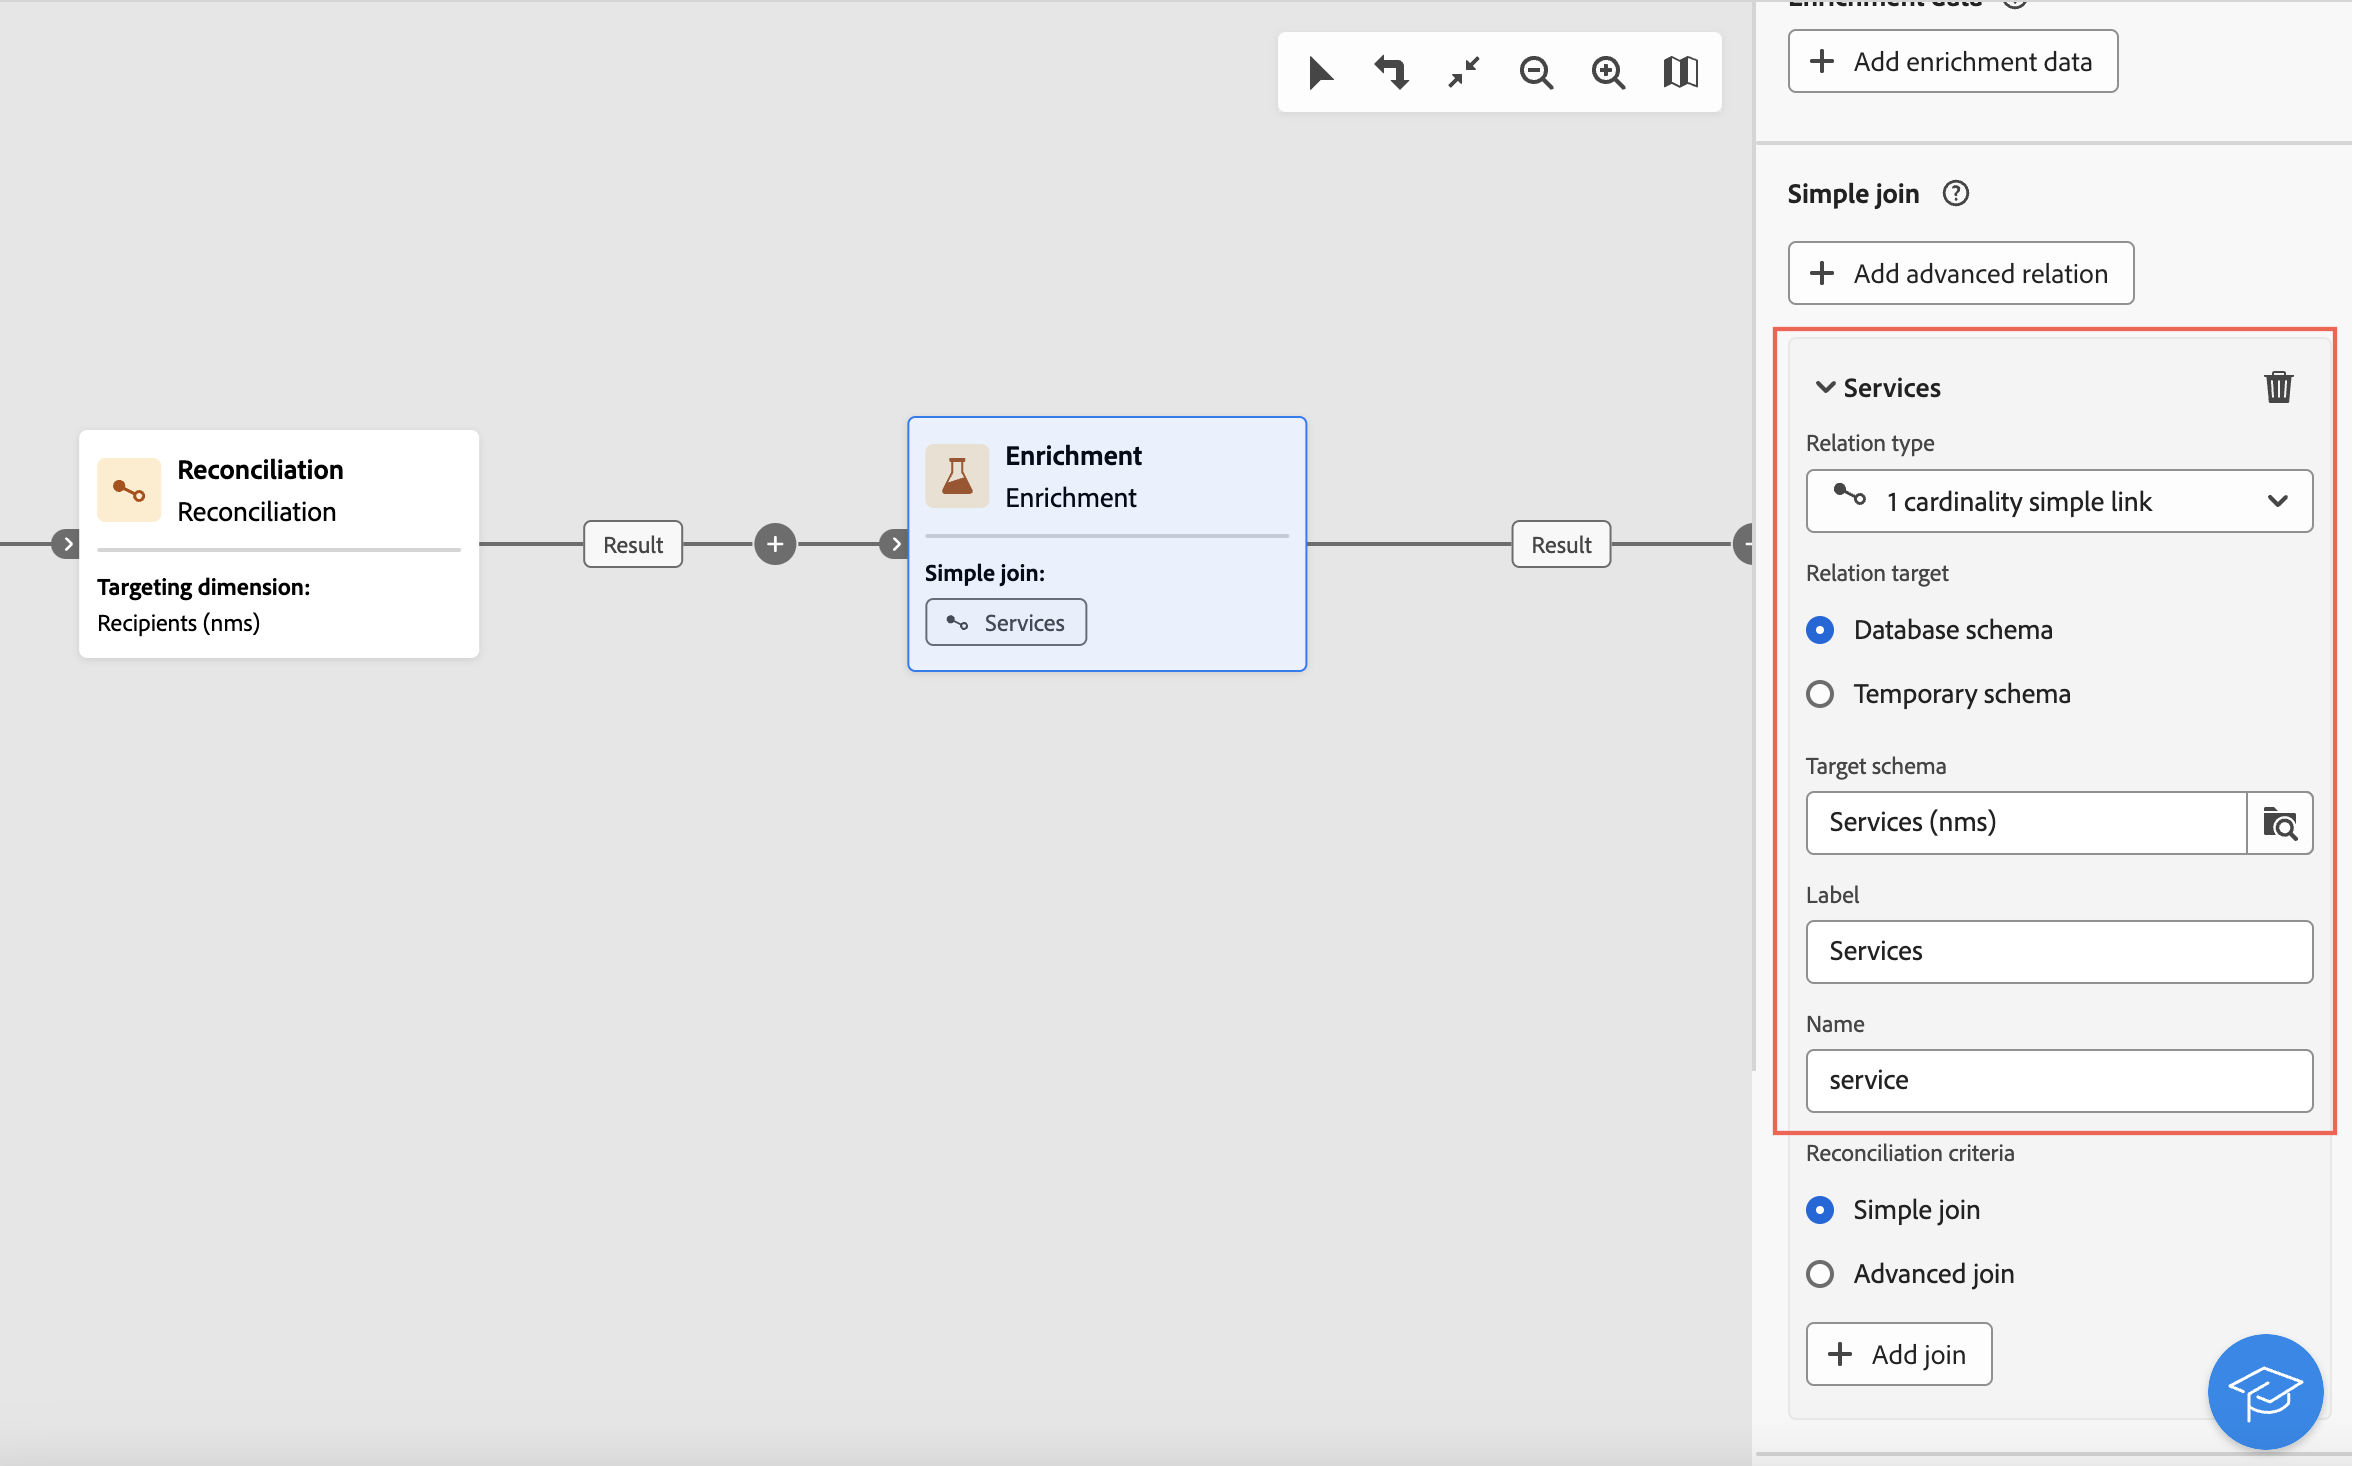
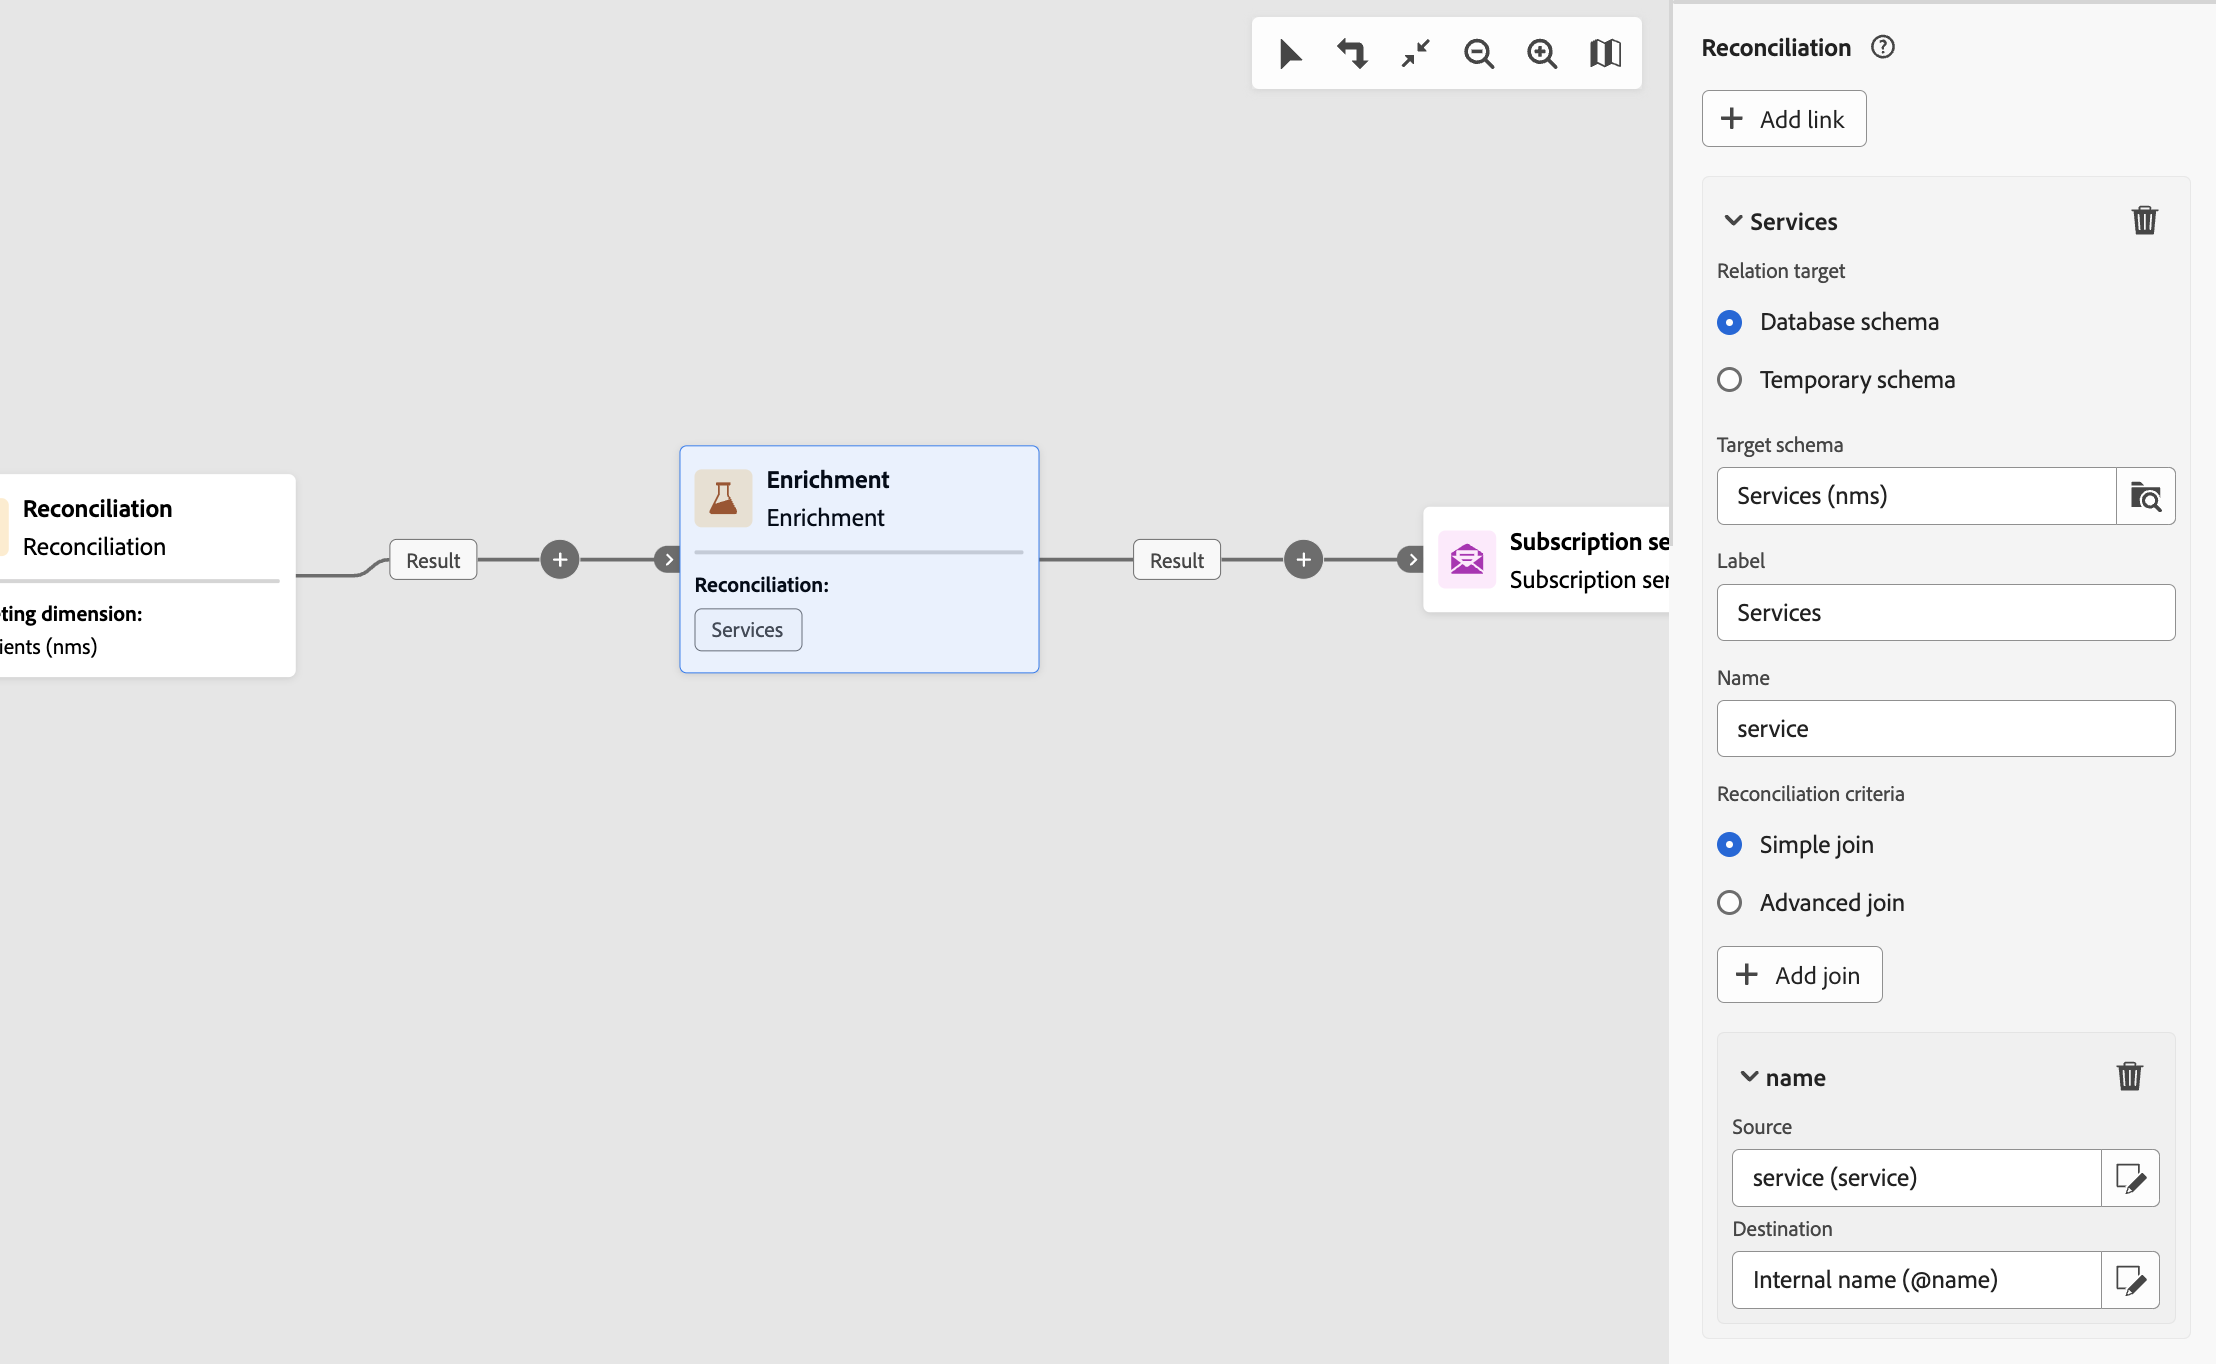
Docac 10429 reconciliation enrichment (#155)
* draft

* reconciliation option

* update reconciliation

* update example

* fix

* add use case

* update

* update uc subscription

* fix

* fix

* fix use case

diff --git a/help/v8/workflows/activities/subscription-services.md b/help/v8/workflows/activities/subscription-services.md
@@ -4,7 +4,7 @@ title: Use the Subscription services activity
 description: Learn how to use the Subscription services workflow activity
 exl-id: 0e7c2e9a-3301-4988-ae0e-d901df5b84db
 ---
-# Subscription services {#subscriptipon-services}
+# Subscription services {#subscription-services}
 
 >[!CONTEXTUALHELP]
 >id="acw_orchestration_subscription"
@@ -50,10 +50,12 @@ Follow these steps to configure the **Subscription services** activity:
 
     * **Select an operation type from a path of inbound transition**: Select the column of the inbound data that specifies the operation to perform for each record. For example, you can import a file which specifies the operation to perform for each line in an "operation" column.
 
-      >[!NOTE]
-      >
-      >Only boolean or integer fields can be selected here. Make sure that the data containing the operation to perform matches this format. For example, if you are loading data from a Load file activity, check that you have correctly set the format of the column containing the operation in the **[!UICONTROL Load file]** activity. An example is presented in [this section](#uc2).
+      Only boolean or integer fields can be selected here. Make sure that the data containing the operation to perform matches this format. For example, if you are loading data from a Load file activity, check that you have correctly set the format of the column containing the operation in the **[!UICONTROL Load file]** activity. An example is presented in [this section](#uc2).
 
+      >[!CAUTION]
+      >
+      >By default, if you select this option, the **Subscription services** activity expects to have a link definition to the **Services (nms)** table set up in the workflow. To do this, ensure you have configured a reconciliation link in an **Enrichment activity** upwards in the workflow. An example showing how to use this option is available [here](#uc2).
+      
     ![](../assets/workflow-subscription-service-inbound.png)
 
 1. To notify recipients that they are subscribed to or unsubscribed from the selected service, toggle the **[!UICONTROL Send a confirmation message]** option on. The content of this notification is defined in a delivery template associated to the information service.
@@ -80,7 +82,6 @@ This workflow below shows how to subscribe an audience to an existing service.
 
 * A **[!UICONTROL Subscription Services]** activity lets you select the service to which the profiles must be subscribed.
 
-<!--
 ### Updating multiple subscription statuses from a file {#uc2}
 
 The workflow below shows how to import a file containing profiles and update their subscription to several services specified in the file.
@@ -98,7 +99,9 @@ The workflow below shows how to import a file containing profiles and update the
   Durance,Alison,San Francisco,15/12/2000,allison.durance@example.com,running,unsub
   ```
 
-  As you may have noticed, the operation is specified in the file as "sub" or "unsub". The system expects a **Boolean** or **Integer** value to recognize the operation to perform: "0" to unsubscribe and "1" to subscribe. To match this requirement, a remapping of values must be performed in the detail of the "operation" column in the sample file configuration screen.
+  As you may have noticed, the operation is specified in the file as "sub" or "unsub". The system expects a **Boolean** or **Integer** value to recognize the operation to perform: "0" to unsubscribe and "1" to subscribe. To match this requirement:
+  * The **Data type** for the "operation" column is set to integer.
+  * A **Value remapping** must be performed to match the the "sub" and "unsub" values with "1" and "0" values.
 
   ![](../assets/workflow-subscription-service-uc2-mapping.png)
 
@@ -106,18 +109,14 @@ The workflow below shows how to import a file containing profiles and update the
 
 * A **[!UICONTROL Reconciliation]** activity identifies the data from the file as belonging to the profile dimension of the Adobe Campaign database. The **email** field of the file is matched to the **email** field of the profile resource.
 
-  ![](../assets/workflow-subscription-service-uc2-enrichment.png)
+  ![](../assets/workflow-subscription-service-uc2-reconciliation.png)
 
-* An **[!UICONTROL Enrichment]** activity creates a link to the "Services (nms)" table and creates a simple join between the "service" column of the uploaded file, and the services "internal name" field in the database.
+* An **[!UICONTROL Enrichment]** activity creates a reconciliation link to the "Services (nms)" table, with a simple join between the "service" column of the uploaded file, and the services "internal name" field in the database.
 
     ![](../assets/workflow-subscription-service-uc2-enrichment.png)
-
-* A **[!UICONTROL Deduplication]** based on the **email** field identifies duplicates. It is important to eliminate duplicates since the subscription to a service will fail for all data in case of duplicates.
-
-  ![](../assets/workflow-subscription-service-uc2-dedup.png)
   
-* A **[!UICONTROL Subscription Services]** identifies the services to update as coming from the transition, through the link created in the **[!UICONTROL Reconciliation]** activity.
+* A **[!UICONTROL Subscription Services]** identifies the services to update as coming from the transition.
 
   The **[!UICONTROL Operation type]** is identified as coming from the **operation** field of the file. Only Boolean or Integer fields can be selected here. If the column of your file that contains the operation to perform does not appear in the list, make sure that you have correctly set your column format in the **[!UICONTROL Load file]** activity, as explained earlier in this example.
 
-  ![](../assets/workflow-subscription-service-uc2-subscription.png)-->
+  ![](../assets/workflow-subscription-service-uc2-subscription.png)

diff --git a/help/v8/workflows/activities/enrichment.md b/help/v8/workflows/activities/enrichment.md
@@ -105,6 +105,36 @@ To create a link, follow these steps:
 
 A workflow example using links is available in the [Examples](#link-example) section.
 
+## Data reconciliation {#reconciliation}
+
+The **Enrichment** activity can be used to reconcile data from the the Campaign database schema with data from another schema, or with data coming from a temporary schema such as data uploaded using a Load file activity. This type of link defines a reconciliation towards a unique record. Adobe Campaign creates a link to a target table by adding a foreign key in it for storing a reference to the unique record.
+
+For example, you can use this option to reconcile a profile's country, specified in an uploaded file, with one of the countries available in the dedicated table of the Campaign database. 
+
+Follow the steps to configure an **Enrichment** activity with a reconciliation link: 
+
+1. Click the **Add link** button in the **Reconciliation** section.
+1. Identify the data you want to create a reconciliation link with.
+
+    * To create a reconciliation link with data from the Campaign database, select **Database schema** and choose the schema where the target is stored. 
+    * To create a reconciliation link with data coming from the input transition, select **Temporary schema** and choose the workflow transition where the target data is stored. 
+
+1. The **Label** and **Name** fields are automatically populated based on the selected target schema. You can change their values if necessary.
+
+1. In the **Reconciliation criteria** section, specify how you want to reconcile data from the source and destination tables:
+
+    * **Simple join**: Reconcile a specific field from the source table with another field in the destination table. To do this, click the **Add join** button and specify the **Source** and **Destination** fields to use for the reconciliation.
+
+        >[!NOTE]
+        >
+        >You can use one or more **Simple join** criteria, in which case they must all be verified so that the data can be linked together.
+
+    * **Advanced join**: Use the query modeler to configure the reconciliation criteria. To do this, click the **Create condition** button then define your reconciliation criteria by building your own rule using AND and OR operations.
+
+The example below shows a workflow configured to create a link between the Adobe Campaign database recipients table and a temporary table generated a **Load file** activity. In this example, the Enrichment activity reconciliates both tables using the email address as reconciliation criteria.
+
+![](../assets/enrichment-reconciliation.png)
+
 ## Examples {#example}
 
 ### Single enrichment attribute {#single-attribute}
@@ -171,48 +201,17 @@ We now need to apply sorting in order to retrieve the three **latest** purchases
 
 ![](../assets/workflow-enrichment7.png)
 
-
 ### Enrichment with linked data {#link-example}
 
-The example below shows a workflow configured to create a link between two transitions. The first transitions targets profile data using a Query activity, while the second transition includes purchase data stored into a file loaded through a Load file activity.
+The example below shows a workflow configured to create a link between two transitions. The first transitions targets profile data using a **Query** activity, while the second transition includes purchase data stored into a file loaded through a Load file activity.
 
-* The first **Enrichment** activity links our primary set (data from the **Query** activity) with the schema from the **Load file** activity. This allows us to match each profile targeted by the query with the corresponding purchase data.
+![](../assets/enrichment-uc-link.png)
+
+* The first **Enrichment** activity links the primary set (data from the **Query** activity) with the schema from the **Load file** activity. This allows us to match each profile targeted by the query with the corresponding purchase data.
+
+    ![](../assets/enrichment-uc-link-purchases.png)
+
 * A second **Enrichment** activity is added in order to enrich data from the workflow table with the purchase data coming from the **Load file** activity. This allows us to use those data in further activities, for example, to personalize messages sent to the customers with information on their purchase.
 
-    ![](../assets/workflow-enrichment-example.png)
-
-
-
-
-
-<!--
-
-Add other fields
-use it in delivery
-
-
-cardinality between the tables (1-N)
-1. select attribute to use as enrichment data
-
-    display advanced fields option
-    i button
-
-    note: attributes from the target dimension
-
-1. Select how the data is collected
-1. number of records to retrieve if want to retrieve a collection of multiple records
-1. Apply filters and build rule
-
-    select an existing filter
-    save the filter for reuse
-    view results of the filter visually or in code view
-
-1. sort records using an attribute
-
-leverage enrichment data in campaign
-
-where we can use the enrichment data: personalize email, other use cases?
-
-## Example
-
--->
+    ![](../assets/enrichment-uc-link-data.png)
+ 
